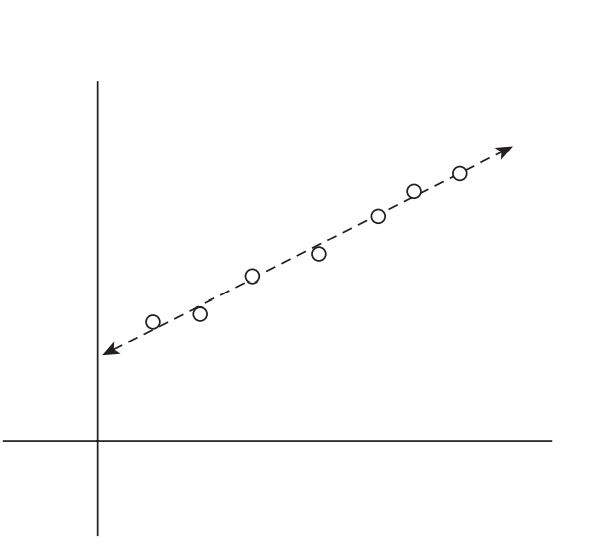
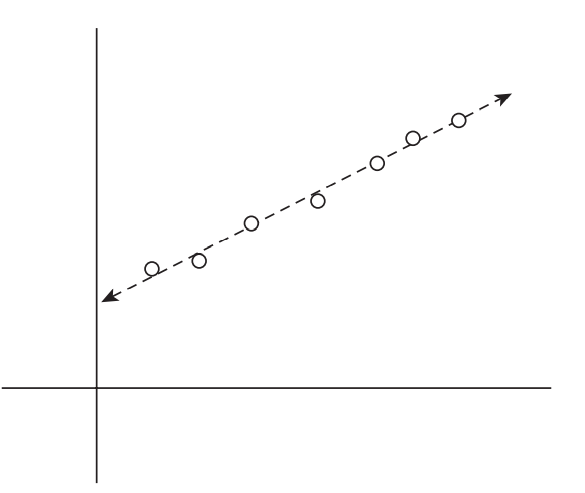
Pinotti Latex
Riscritti appunti in latex.
Modificata un'immagine per adattarla meglio a latex.

diff --git a/magistrale/Anno 1/Advanced Algotihms/pinotti/latex/capitoli/3-least_squares_problem_multiway_choice.tex b/magistrale/Anno 1/Advanced Algotihms/pinotti/latex/capitoli/3-least_squares_problem_multiway_choice.tex
@@ -1,0 +1,158 @@
+\chapter{Least Squares Problem: Multi-way Choice \normalfont{\emoji{motorway}}}
+
+Nel capitolo precedente l'algoritmo richiedeva una ricorsione basata su scelte
+binarie, in questo capitolo invece introdurremo un algoritmo che richiede ad
+ogni step un numero di scelte polinomiali (\textit{multi-way choice}). Vedremo
+come la programmazione dinamica si presta molto bene a risolvere questi
+problemi.
+
+\section{Linear Least Square}
+
+\subsection{Il Problema}
+
+La formulazione del problema è la seguente:
+
+\paragraph*{} dato un insieme $P$ composto di $n$ punti sul piano denotati con\\
+$(x_1, y_1), (x_2, y_2), \ldots, (x_n, y_n)$; e supponiamo che $x_1 < x_2 <
+    \ldots < x_n$ (sono strettamente crescenti). Data una linea $L$ definita
+dall'equazione $y = ax + b$, definiamo l'\textit{errore} di $L$ in funzione
+di $P$ come la somma delle distanze al quadrato della linea rispetto ai
+punti in $P$. Formalmente:
+\[
+    Error(L, P) = \sum_{i=1}^{n} (y_i - ax_i - b)^2
+\]
+
+\begin{figure}[H]
+    \centering
+    \includegraphics[width=6cm, keepaspectratio]{capitoli/imgs/linear_least.png}
+    \caption{Esempio di una tipica istanza e soluzione del problema
+        \textit{Linear Least}}
+\end{figure}
+
+\subsection{\goal}
+
+È intuibile che il goal dell'algoritmo è quello di cercare la linea con errore
+minimo, che può essere facilmente trovata utilizzando l'analisi matematica.
+La linea di errore minimo è $y = ax + b$ dove:
+
+\[
+    a = \frac{n \sum_{i} x_i y_i - (\sum_{i} x_i) (\sum_{i} y_i)}{n \sum_{i} x_i^2 - (\sum_{i} x_i)^2} \ \ \  \ \ b = \frac{\sum_{i} y_i - a \sum_{i} x_i}{n}
+\]
+
+\section{Segmented Least Square}
+
+Le formule appena citate sono utilizzabili solo se i punti di $P$ hanno un
+andamento che è abbastanza lineare ma falliscono in altre circostanze.
+
+\begin{figure}[H]
+    \centering
+    \includegraphics[width=8cm, keepaspectratio]{capitoli/imgs/segmente_linear_least.png}
+    \caption{Esempio di funzione non risolvibile con Linear Least Square}
+\end{figure}
+
+Come è evidente (\textit{lapalissiano \normalfont{\emoji{gem}}}) dalla figura
+non è possibile trovare una linea che approssimi in maniera soddisfacente i
+punti, dunque per risolvere il problema possiamo pensare di rilassare la
+condizione che sia solo una la linea. Questo però implica dover riformulare il
+goal che altrimenti risulterebbe banale (si fanno $n$ linee che passano per ogni
+punto).
+
+\subsection{Costi}
+
+La parte che computa gli errori ha costo in tempo $O(n^3)$ (si può portare a
+$O(n^2)$).
+La parte che trova il valore ottimo ha costo $O(n^2)$.\\
+
+In spazio l'algoritmo ha costo $O(n^2)$ ma può essere ridotto a $O(n)$
+
+\subsection{\goal}
+
+Formalmente, il problema è espresso come segue:
+
+\paragraph*{} come prima abbiamo un set di punti $P = \{(x_1, y_1), (x_2, y_2),
+    \ldots, (x_n, y_n)\}$ strettamente crescenti. Denoteremo l'insieme dei punti
+$(x_i, y_i)$ con $p_i$. Vogliamo partizionare $P$ in un qualche numero di
+segmenti, ogni numero di segmenti è un sottoinsieme di $P$ che rappresenta un
+\textit{set} contiguo delle coordinate $x$ con la forma $\{p_i, p_{i+1}, \ldots,
+    p_{j-1}, p_j\}$ per degli indici $i \leq j$. Dopodiché, per ogni segmento $S$
+calcoliamo la linea che minimizza l'errore rispetto ai punti in $S$ secondo
+quanto espresso dalle formule enunciate prima.\\
+
+Definiamo infine una penalità per una data partizione come la somma dei seguenti
+termini:
+
+\begin{itemize}
+    \item Numero di segmenti in cui viene partizionato $P$ moltiplicato per un
+          valore $C > 0$ (più è grande e più penalizza tante partizioni)
+    \item Per ogni segmento l'errore della linea ottima attraverso quel
+          segmento.
+\end{itemize}
+
+
+Il goal del Segmented Least Square Problem è quindi quello di trovare la
+partizione di \textbf{penalità minima}.
+
+\subsection{Funzionamento}
+
+Per come è fatta la programmazione dinamica noi vogliamo suddividere il problema
+in sotto-problemi e per farlo partiamo dall'osservazione che l'ultimo punto
+appartiene ad una partizione ottima che parte da un valore $p_i$ fino a $p_n$ e
+che possiamo togliere questi punti dal totale per ottenete un sotto-problema più
+piccolo. Supponiamo che la soluzione ottima sia denotata da \verb|OPT(j)|, per i
+punti che vanno da $p_1$ a $p_j$, allora avremo che la soluzione ottima al
+problema dato l'ultimo segmento che va da $p_i$ a $p_n$, sarà dalla seguente
+formula:
+
+\[
+    OPT(n) = e_{i,n} + C + OPT(i - 1)
+\]
+
+Questa formula è data dalla soluzione ottima dell'ultima partizione ($e_{i,n} + C$)
+a cui viene aggiunta la soluzione ottima di tutte le partizioni precedenti
+($OPT(i -1)$). Per i sotto-problemi possiamo scrivere la soluzione al problema
+in forma ricorsiva utilizzando la formula appena espressa che prenderà la forma:
+
+\[
+    OPT(j) = \min_{1 \leq i \leq j}(e_{i,j} + C + OPT(i - 1))
+\]
+
+Possiamo ora dare una versione di questo algoritmo in pseudocodice:
+
+\begin{lstlisting}[language=Javascript]
+    function Segmented-Least-Squares(n) {
+        M[0 ... n]
+        M[0] = 0
+
+        // compute the errors
+        for (j in 1 ... n) {
+            for (i in 1 ... j) {
+                compute eij for the segment pi, ..., pj
+            }
+        }
+
+        // find optimal value
+        for (j in 1 ... n) {
+            M[j] = min_i(eij + C + M[i - 1]) // OPT(J)
+        }
+
+        return M[n]
+    }
+\end{lstlisting}
+
+Dopo aver trovato la soluzione ottima, possiamo sfruttare la memoization per
+ricavarci i segmenti in tempi brevi.
+
+\begin{lstlisting}[language=Javascript]
+    function Find-Segments(j) {
+        if (j == 0) print('')
+
+        else {
+            Find an i that minimizes ei,j + C + M[i − 1]
+            Output the segment {pi,..., pj} and the result of Find-Segments(i − 1)
+        }
+    }
+\end{lstlisting}
+
+L'algoritmo ha costo $O(n^3)$ in tempo e $O(n^2)$ in spazio.
+Questo tempo può essere ridotto applicando la memoization alle formule per il calcolo
+dell'errore viste in precedenza portandolo a $O(n^2)$ per il tempo e $O(n)$ per lo spazio.

diff --git a/magistrale/Anno 1/Advanced Algotihms/pinotti/latex/main.tex b/magistrale/Anno 1/Advanced Algotihms/pinotti/latex/main.tex
@@ -126,6 +126,11 @@
 \usepackage{emoji}
 \setemojifont{NotoColorEmoji.ttf}[Path=/usr/share/fonts/truetype/noto/]
 
+
+% Macro
+\newcommand{\goal}{Goal \normalfont{\emoji{soccer-ball}}}
+
+
 \begin{document}
 \include{frontmatter/main.tex}
 
@@ -135,5 +140,6 @@
 
 \include{capitoli/1-introduzione_all_programmazione_dinamica.tex}
 \include{capitoli/2-weighted_interval_scheduling.tex}
+\include{capitoli/3-least_squares_problem_multiway_choice.tex}
 
 \end{document}

diff --git a/magistrale/Anno 1/Advanced Algotihms/pinotti/latex/capitoli/2-weighted_interval_scheduling.tex b/magistrale/Anno 1/Advanced Algotihms/pinotti/latex/capitoli/2-weighted_interval_scheduling.tex
@@ -42,7 +42,7 @@ notazione:
     \caption{Istanza di un problema.}
 \end{figure}
 
-\section{Goal \normalfont{\emoji{soccer-ball}}}
+\section{\goal}
 
 L'obiettivo del nostro problema attuale è quello di trovare un sottoinsieme $S
     \subseteq \{1, \ldots, n\}$ di intervalli mutualmente compatibili che vanno a
